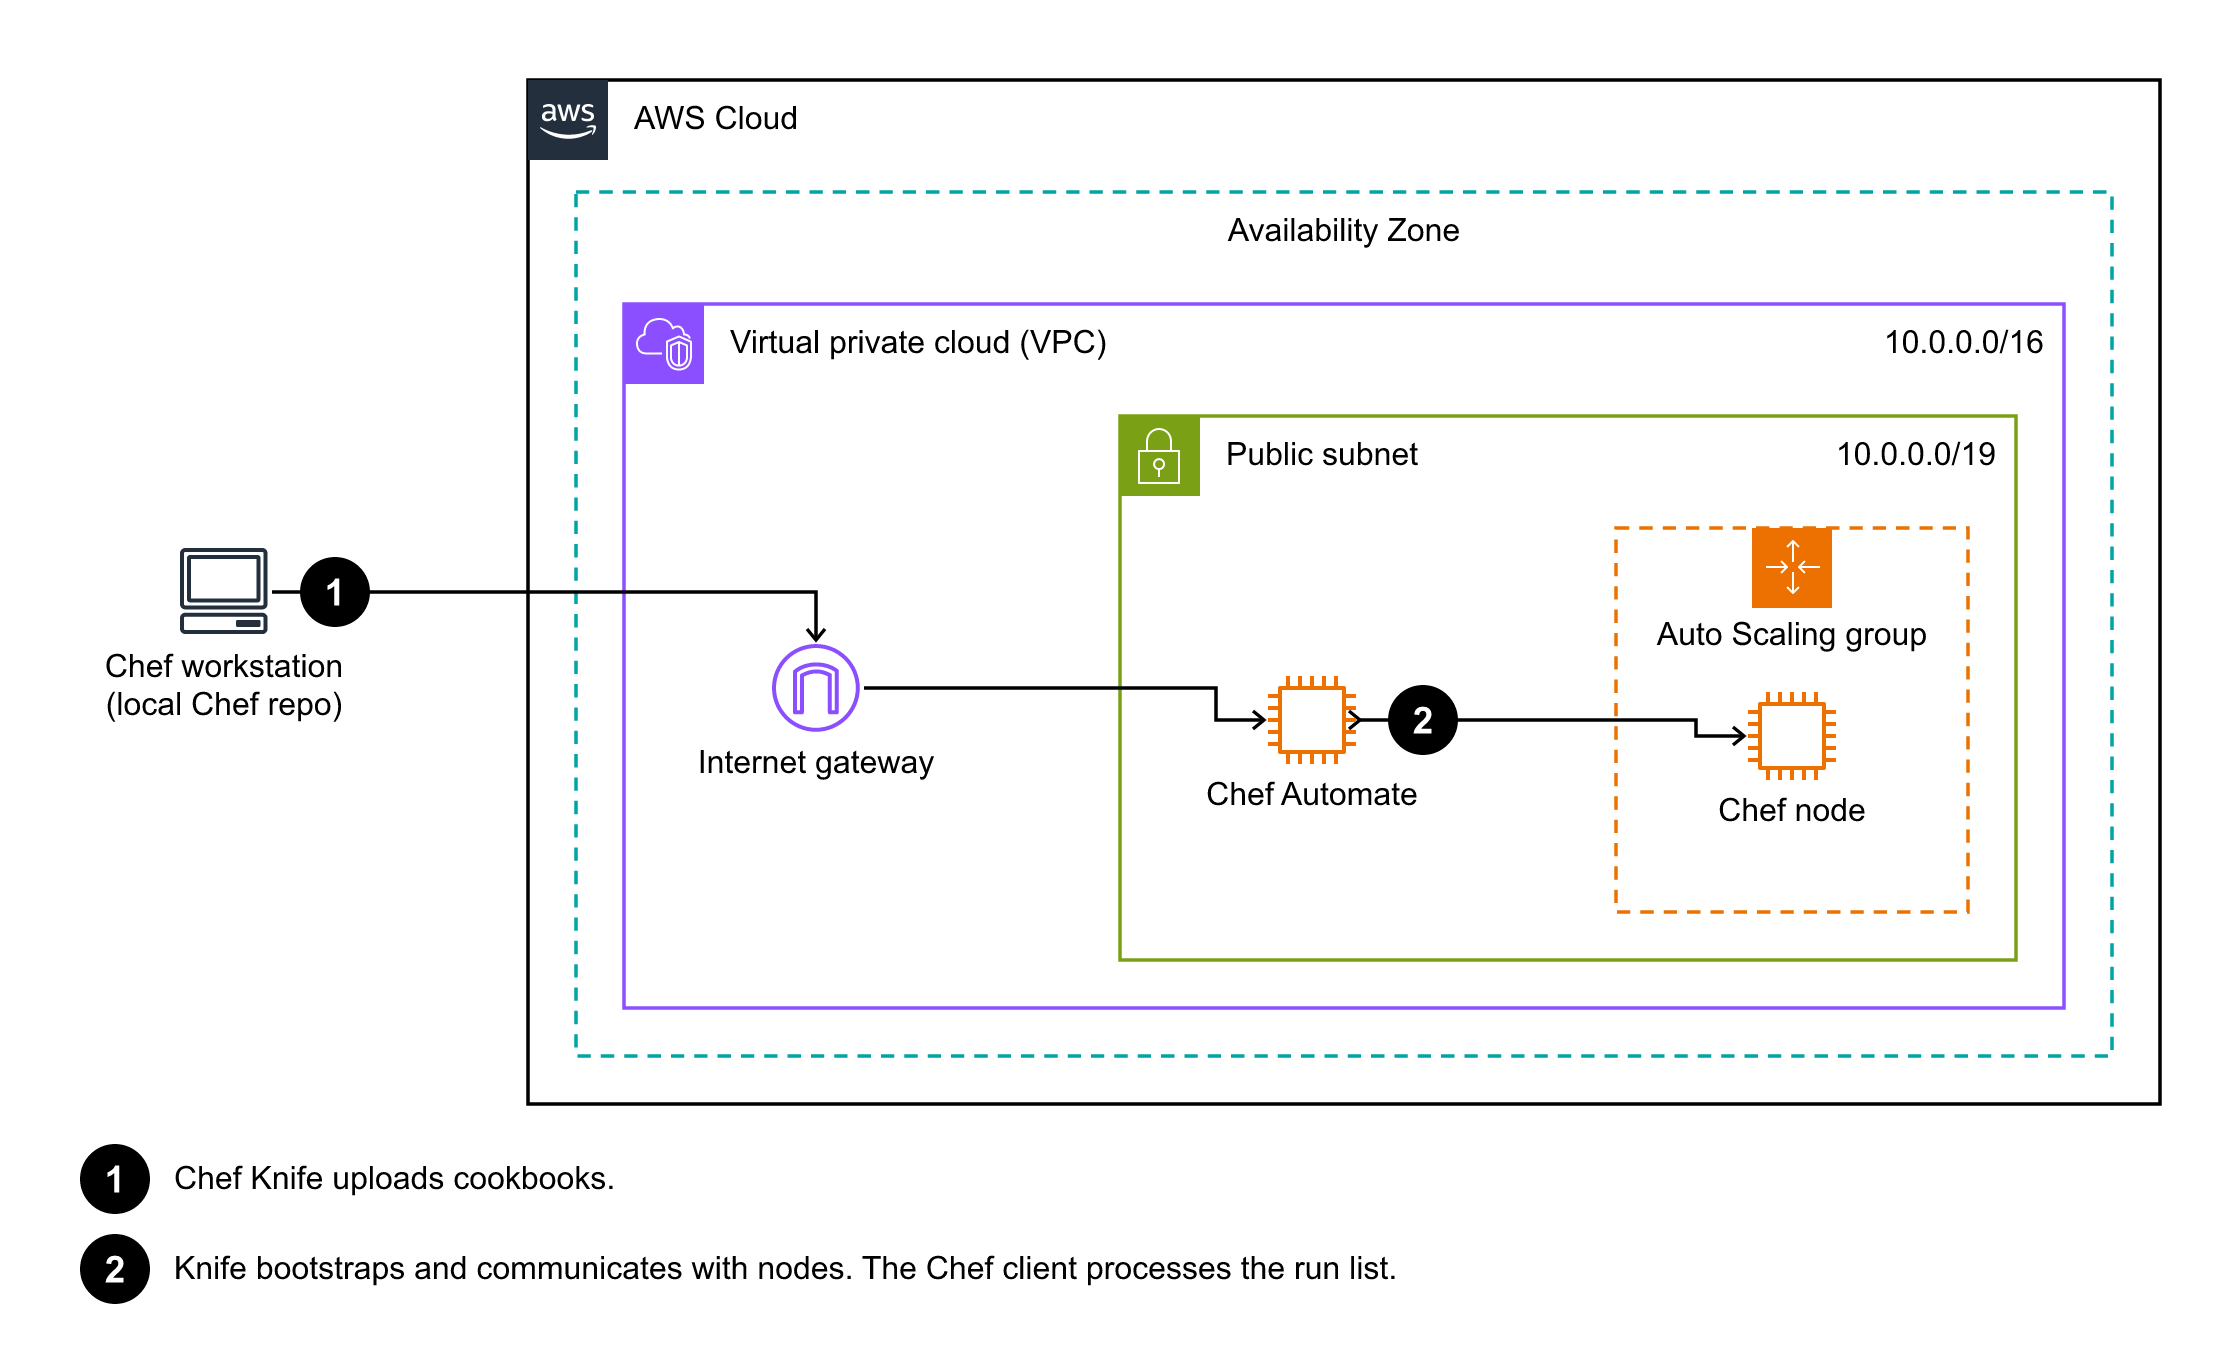
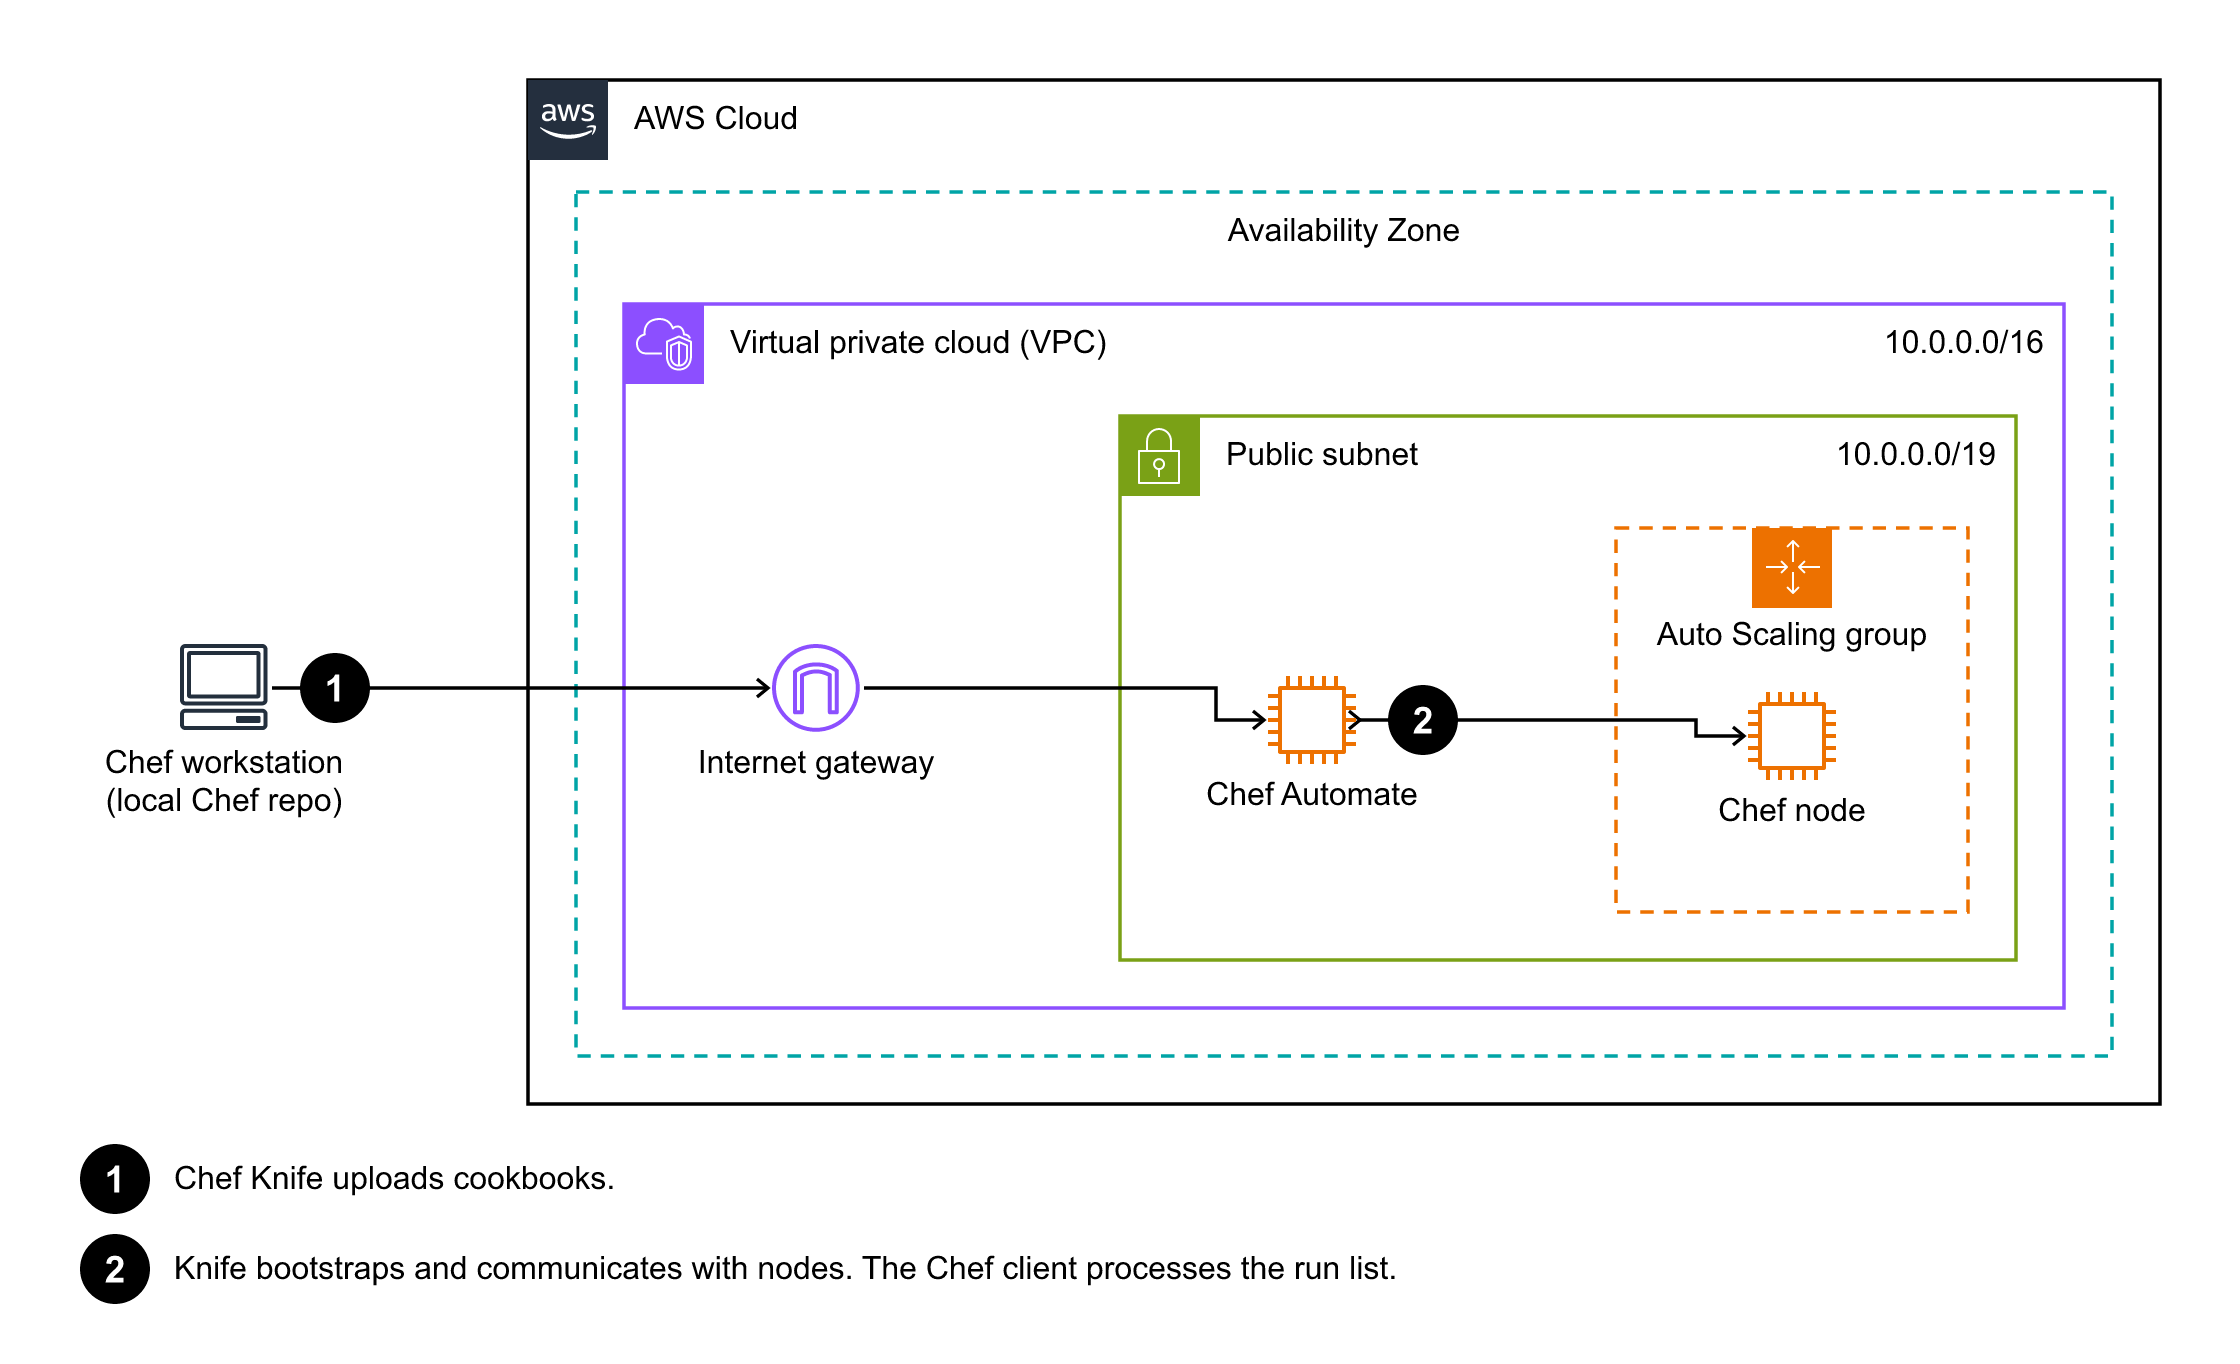
Add lanes (row:), label collision avoidance and router tuning
- row: N on groups/nodes splits a parent into lanes stacked across the flow
- edge labels go to the first free spot along the arrow
- router keeps arrows off group borders; top-level icons align with their peer
- exact alias matches rank first in find-icon, typo-tolerant suggestions
- label max width 150px (deck text boxes are 117-156px)

Changed region(s): [[0.0312, 0.4003, 0.1875, 0.6158], [0.3438, 0.4311, 0.375, 0.4619], [0.3125, 0.4927, 0.3438, 0.5235]]

diff --git a/references/spec.md b/references/spec.md
@@ -17,6 +17,7 @@ groups:                         # structure first
     label: Virtual private cloud (VPC)   # optional, defaults to the preset label
     cidr: 10.0.0.0/16           # optional, printed at the right of the group header
     layout: flow                # optional: flow (default) | row | column
+    row: 0                      # optional lane inside the parent (0 = first). Lanes stack across the flow
   - id: orders
     type: custom                # custom group for a service: category color + its 32px icon
     service: step-functions
@@ -28,6 +29,7 @@ nodes:
     label: Application Load Balancer   # optional, defaults to the official name. "\n" forces a break
     parent: pub1
     step: 3                     # optional numbered callout next to the icon
+    row: 1                      # optional lane inside the parent group (see Layout below)
 
 edges:
   - from: users                 # node or group id
@@ -68,3 +70,13 @@ steps:                          # optional numbered legend under the diagram
   callout numbering gaps or duplicates, many large callouts, labels wider than 2 × 140 px.
 
 Run `node scripts/validate.mjs spec.yaml --strict` to treat warnings as errors.
+
+## Layout
+
+- Children of a group are placed in **columns along the flow**, ordered by the arrows. Parallel groups (AZs, Regions, accounts) share one column.
+- `row: N` on groups or nodes splits a parent into **lanes** that are stacked across the flow (below each other when `direction: right`).
+  Every lane is laid out on its own. Use lanes to mirror a two-tier picture, e.g. *primary site + monitoring* on lane 0 and *DR Region* on lane 1,
+  or a main chain in lane 0 with its consumers in lane 1.
+- `layout: row|column` places children in spec order without ranking.
+- A top-level icon (e.g. users) is aligned with the icon it connects to.
+- Edge labels are placed at the first free spot along the arrow, avoiding icons, labels and group titles.

diff --git a/SKILL.md b/SKILL.md
@@ -40,7 +40,8 @@ Everything lives in this skill's folder (`<skill>` below). Run `npm install` the
   - Never invent group icons.
 - **Icons** are always 48 px. Do not resize, crop, rotate, flip or recolor them. Always use SVG, never PNG.
 - **Arrows**: 1.25 pt with an "Open Arrow" head, straight lines and right angles only. Only the presets are allowed:
-  `arrow: end | both | none`.
+  `arrow: end | both | none`. There are **no dashed arrows** in the presets, so express secondary flows (monitoring, backup, failover)
+  with an edge `label:` instead of a line style.
 - **Labels**: 12 pt Arial, at most **2 lines**, never broken mid-word. "AWS"/"Amazon" stays with the service name.
   Short forms such as "Amazon EC2" are allowed only if the full name appears elsewhere in the document,
   and two services must never share a short form.
@@ -65,6 +66,8 @@ Everything lives in this skill's folder (`<skill>` below). Run `npm install` the
 - Children of a group are placed in **columns along the flow** (`direction: right` → left-to-right), ordered by the arrows.
   Parallel groups (AZs, Regions, accounts) share a column, so AZ 1 and AZ 2 sit side by side with matching subnets.
 - Within a column, the order in the spec decides the order on the page. List AZ 1 before AZ 2, and public before private.
+- Use `row: N` on children to split a group into lanes stacked across the flow (e.g. primary site on lane 0, DR Region on lane 1).
+  This is the main tool for keeping wide diagrams compact.
 - Use `layout: row` or `layout: column` on a group to force a simple sequence in spec order.
 - Unconnected icons (e.g. a NAT gateway) are placed next to their neighbors in spec order.
 - `engine: elk` switches to the ELK layered engine, which can be better for large flow-heavy diagrams with few groups.
